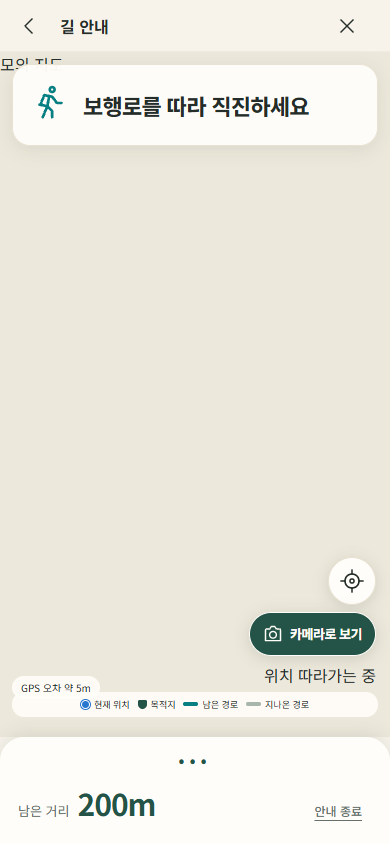
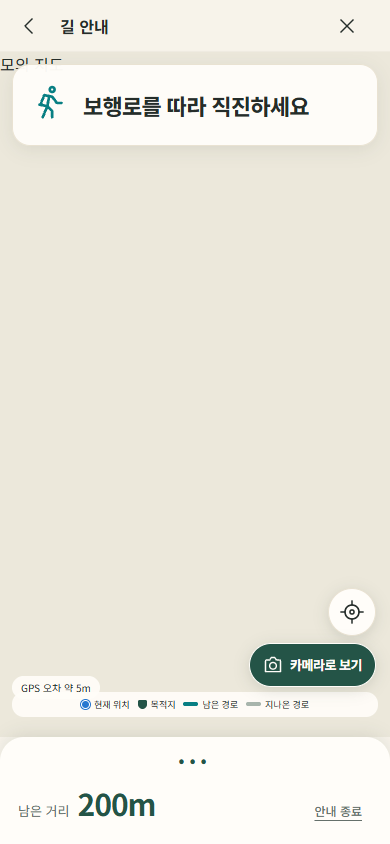
fix: remove map status caption from camera controls

Changed region(s): [[0.6154, 0.6469, 0.9846, 0.8318]]

diff --git a/tests/browser/bottom-sheet.spec.ts b/tests/browser/bottom-sheet.spec.ts
@@ -28,4 +28,4 @@ test('큰 글씨에서도 펼친 시트가 상단 방향 안내를 덮지 않는
  await page.setViewportSize({width:320,height:720});await setup(page);await page.getByRole('button',{name:'길 안내 시작',exact:true}).click();await page.addStyleTag({content:'html{font-size:200%!important}'});await page.getByRole('button',{name:'안내 정보 펼치기',exact:true}).click();const card=page.getByRole('region',{name:'실제 경로 이동 안내'});await expect.poll(async()=>{const c=(await card.boundingBox())!,s=(await page.locator('.journey-sheet').boundingBox())!;return s.y-c.y-c.height;}).toBeGreaterThanOrEqual(12);const fold=page.getByRole('button',{name:'안내 정보 접기',exact:true});await fold.scrollIntoViewIfNeeded();await expect(fold).toBeInViewport();await fold.click();await expect(page.getByTestId('live-remaining')).toBeInViewport();
 });
 
-test('접힌 시트에서 지도 카메라 버튼으로 열고 뒤로가면 지도와 접힘 상태를 유지한다',async({page})=>{await page.setViewportSize({width:390,height:844});await setup(page);await page.getByRole('button',{name:'길 안내 시작',exact:true}).click();await fix(page);const launch=page.locator('.map-camera-launch').getByRole('button',{name:'실제 카메라 켜기'});await expect(launch).toHaveText('카메라로 보기');await expect(page.getByRole('button',{name:'안내 정보 펼치기'})).toHaveText('•••');await expect(launch).toBeInViewport();const a=(await launch.boundingBox())!,b=(await page.getByRole('button',{name:'현재 위치로 지도 이동'}).boundingBox())!;expect(a.y).toBeGreaterThan(b.y+b.height);expect(a.width).toBeGreaterThan(120);expect(a.height).toBeLessThan(60);await page.screenshot({path:'test-results/map-camera-button-390.png'});await launch.click();await expect(page.getByRole('region',{name:'실제 카메라 미리보기'})).toBeVisible();await page.goBack();await expect(page.getByRole('region',{name:'실제 카메라 미리보기'})).toHaveCount(0);await page.clock.runFor(50);await expect(launch).toBeFocused();await expect(page.getByRole('button',{name:'안내 정보 펼치기'})).toHaveAttribute('aria-expanded','false');await expect(page.getByTestId('live-remaining')).toBeInViewport();});
+test('접힌 시트에서 지도 카메라 버튼으로 열고 뒤로가면 지도와 접힘 상태를 유지한다',async({page})=>{await page.setViewportSize({width:390,height:844});await setup(page);await page.getByRole('button',{name:'길 안내 시작',exact:true}).click();await fix(page);const launch=page.locator('.map-camera-launch').getByRole('button',{name:'실제 카메라 켜기'});await expect(launch).toHaveText('카메라로 보기');await expect(page.getByText('지도 둘러보는 중',{exact:true})).toHaveCount(0);await expect(page.getByText('위치 따라가는 중',{exact:true})).toHaveCount(0);await expect(page.getByRole('button',{name:'안내 정보 펼치기'})).toHaveText('•••');await expect(launch).toBeInViewport();const a=(await launch.boundingBox())!,b=(await page.getByRole('button',{name:'현재 위치로 지도 이동'}).boundingBox())!;expect(a.y).toBeGreaterThan(b.y+b.height);expect(a.width).toBeGreaterThan(120);expect(a.height).toBeLessThan(60);await page.screenshot({path:'test-results/map-camera-button-390.png'});await launch.click();await expect(page.getByRole('region',{name:'실제 카메라 미리보기'})).toBeVisible();await page.goBack();await expect(page.getByRole('region',{name:'실제 카메라 미리보기'})).toHaveCount(0);await page.clock.runFor(50);await expect(launch).toBeFocused();await expect(page.getByRole('button',{name:'안내 정보 펼치기'})).toHaveAttribute('aria-expanded','false');await expect(page.getByTestId('live-remaining')).toBeInViewport();});

diff --git a/src/navigation/WalkingMap.tsx b/src/navigation/WalkingMap.tsx
@@ -80,6 +80,6 @@ export function WalkingMap({onCameraHost,start,destination,route,progress,naviga
  const pointer=useRef<{x:number;y:number}|null>(null);
  return <div className={`live-map-wrapper ${!key||error?'map-compact':''}`}>
  <div id={`walking-map-${id}`} ref={host} className="live-map-canvas" style={!key||error?{display:'none'}:undefined} role="region" aria-label={`${destination.name} 도보 경로 지도`} onPointerDownCapture={e=>{pointer.current={x:e.clientX,y:e.clientY};}} onPointerMoveCapture={e=>{if(pointer.current&&Math.hypot(e.clientX-pointer.current.x,e.clientY-pointer.current.y)>8){setFollowing(false);pointer.current=null;}}} onPointerUpCapture={()=>{pointer.current=null;}} onPointerCancelCapture={()=>{pointer.current=null;}} onWheelCapture={()=>setFollowing(false)}/>
- {ready&&!error&&<><div className="map-recenter" data-following={following}><button className="icon-button" aria-label={navigating?'현재 위치로 지도 이동':'전체 경로 보기'} onClick={locate}><Icon name="locate"/></button>{navigating&&<div className="map-camera-launch" ref={onCameraHost}/>}{navigating&&<span className="sr-only" role="status">{approximate?`위치 오차 약 ${Math.round(fix!.accuracy)}m · 정확한 위치 대기`:!progress.position?'현재 위치 확인 중':!fresh?'마지막 위치 · 갱신 대기':following?'위치 따라가는 중':'지도 둘러보는 중'}</span>}</div><div className="map-key" aria-label="지도 표시 범례"><span><i className="key-current"/>현재 위치</span><span><i className="key-destination"/>{separateGoal?'경로 도착점':'목적지'}</span><span><i className="key-route"/>남은 경로</span>{navigating&&<span><i className="key-completed"/>지나온 경로</span>}</div>{navigating&&fix&&<span className="map-gps-accuracy">GPS 오차 약 {Math.round(fix.accuracy)}m</span>}</>}
+ {ready&&!error&&<><div className="map-recenter" data-following={following}><button className="icon-button" aria-label={navigating?'현재 위치로 지도 이동':'전체 경로 보기'} onClick={locate}><Icon name="locate"/></button>{navigating&&<div className="map-camera-launch" ref={onCameraHost}/>}</div><div className="map-key" aria-label="지도 표시 범례"><span><i className="key-current"/>현재 위치</span><span><i className="key-destination"/>{separateGoal?'경로 도착점':'목적지'}</span><span><i className="key-route"/>남은 경로</span>{navigating&&<span><i className="key-completed"/>지나온 경로</span>}</div>{navigating&&fix&&<span className="map-gps-accuracy">GPS 오차 약 {Math.round(fix.accuracy)}m</span>}</>}
  {!key?<p className="compact-map-note" role="status">지도 준비 중 · 경로 안내는 사용할 수 있어요</p>:error?<div className="compact-map-note" role="alert"><p>{error}</p><button className="secondary" onClick={()=>{setError('');setRetry(n=>n+1);}}>지도 다시 불러오기</button></div>:!ready?<div className="map-message" role="status">지도를 불러오고 있어요…</div>:null}</div>;
 }

diff --git a/docs/issues/2026-11-25-map-control-layout.md b/docs/issues/2026-11-25-map-control-layout.md
@@ -13,3 +13,5 @@
 빌드 통과. 브라우저·배포 결과는 아래 기록한다. 모의 SDK/API/GPS 검증, 실기기 확인은 별도. AI 지원 구현·검증·문서.
 
 검증: 빌드·관련 브라우저14개 통과. 320/390/430px, 큰 글씨, 접기/펼치기·카메라 전환/초점·지도 추적 상태 확인. 모의 지도 캡처(assets/2026-11-25-map-control-layout-390.png) 시각 검토.
+
+캡처 보완: sr-only 상태 문구가 다른 스타일에 의해 표시되어 해당 문구 DOM을 제거했다. 지도 추적 상태는 내부 data-following과 기존 GPS 안내로 확인한다. 앞의 스크린리더 문구 유지 설명은 최종 구현에서 대체됐다.
